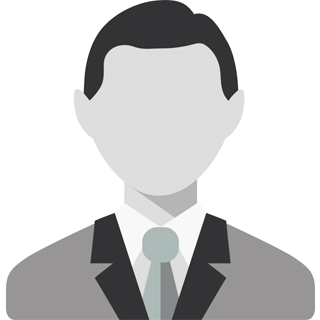
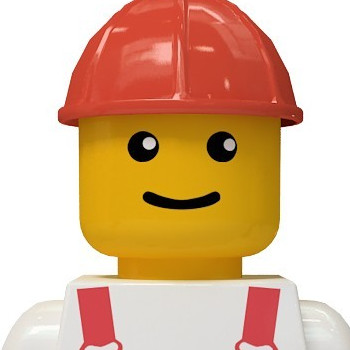
Enable the collapse of left-hand menu bar; hide picture on collapse of menu bar; style Addition blocks; style header

diff --git a/src/less/main.less b/src/less/main.less
@@ -15,6 +15,10 @@
 	#page-wrapper.open {
 		padding-left: 70px;
 	}
+
+	#profile {
+		display: none;
+	}
 }
 
 #page-wrapper.open #sidebar-wrapper {
@@ -69,23 +73,12 @@
 	margin-bottom: 15px;
 }
 
-.row.header > div:last-child {
-	padding-right: 0;
-}
-
-.row.header .meta .page {
-	font-size: 17px;
-	padding-top: 11px;
-}
-
 .row.header .meta .breadcrumb-links {
 	font-size: 10px;
 }
 
 .row.header .meta div {
 	white-space: nowrap;
-	overflow: hidden;
-	text-overflow: ellipsis;
 }
 
 .row.header .login a {
@@ -212,25 +205,6 @@
 	}
 }
 
-/* Fonts */
-@font-face {
-	font-family: 'Montserrat';
-	src: url('../fonts/montserrat-regular-webfont.eot');
-	src: url('../fonts/montserrat-regular-webfont.eot?#iefix') format('embedded-opentype'), url('../fonts/montserrat-regular-webfont.woff') format('woff'), url('../fonts/montserrat-regular-webfont.ttf') format('truetype'), url('../fonts/montserrat-regular-webfont.svg#montserratregular') format('svg');
-	font-weight: normal;
-	font-style: normal;
-}
-
-@media screen and (-webkit-min-device-pixel-ratio: 0) {
-	@font-face {
-		font-family: 'Montserrat';
-		src: url('../fonts/montserrat-regular-webfont.svg') format('svg');
-	}
-
-	select {
-		font-family: Arial, Helvetica, sans-serif;
-	}
-}
 /* Base */
 html {
 	overflow-y: scroll;
@@ -238,7 +212,6 @@ html {
 
 body {
 	background: #f3f3f3;
-	font-family: "Montserrat";
 	color: #333333 !important;
 }
 
@@ -299,26 +272,11 @@ div.input-mask {
 }
 
 
-/* #592727 RED */
-/* #2f5927 GREEN */
-/* #30426a BLUE (default)*/
-/* Sidebar background color */
-/* Sidebar header and footer color */
-/* Sidebar title text colour */
-/* Sidebar menu item hover color */
 /**
  * Sidebar
  */
 #sidebar-wrapper {
 	background: #30426a;
-}
-
-ul.sidebar .sidebar-main a,
-.sidebar-footer,
-ul.sidebar .sidebar-list a:hover,
-#page-wrapper:not(.open) ul.sidebar .sidebar-title.separator {
-	/* Sidebar header and footer color */
-	background: #2d3e63;
 }
 
 ul.sidebar {
@@ -351,7 +309,7 @@ ul.sidebar .sidebar-main a:hover {
 
 ul.sidebar .sidebar-main .menu-icon {
 	float: right;
-	font-size: 18px;
+	font-size: 20px;
 	padding-right: 28px;
 	line-height: 60px;
 }
@@ -388,6 +346,7 @@ ul.sidebar .sidebar-list a:hover .menu-icon {
 
 ul.sidebar .sidebar-list .menu-icon {
 	float: right;
+	font-size: 20px;
 	padding-right: 29px;
 	line-height: 40px;
 	width: 70px;
@@ -414,8 +373,13 @@ ul.sidebar .sidebar-list .menu-icon {
 	text-indent: 22px;
 }
 
-#page-wrapper:not(.open) .sidebar-footer {
-	display: none;
+#page-wrapper:not(.open) #profile,
+#page-wrapper:not(.open) #profile img,
+#page-wrapper:not(.open) #profile span {
+	opacity: 0;
+	height: 0;
+	padding: 0;
+	transition: height 0.5s linear, opacity 0.5s linear;
 }
 
 .sidebar-footer {

diff --git a/src/templates/dashboard.html b/src/templates/dashboard.html
@@ -6,7 +6,7 @@
             <rd-widget-body>
                 <div class="title">Track Builder</div>
                 <div class="comment">Build customer learning tracks</div>
-                <div><i class="fa fa-plus"></i></div>
+                <div class="addition-icon"><i class="fa fa-plus"></i></div>
             </rd-widget-body>
         </rd-widget>
     </div>
@@ -15,7 +15,7 @@
             <rd-widget-body>
                 <div class="title">Add Videos</div>
                 <div class="comment">Add videos for customers</div>
-                <div><i class="fa fa-plus"></i></div>
+                <div class="addition-icon"><i class="fa fa-plus"></i></div>
             </rd-widget-body>
         </rd-widget>
     </div>
@@ -24,7 +24,7 @@
             <rd-widget-body>
                 <div class="title">Add Documents</div>
                 <div class="comment">Add documents for customers</div>
-                <div><i class="fa fa-plus"></i></div>
+                <div class="addition-icon"><i class="fa fa-plus"></i></div>
             </rd-widget-body>
         </rd-widget>
     </div>

diff --git a/src/index.html b/src/index.html
@@ -30,7 +30,7 @@
         <div class="col-xs-12">
             <div class="meta">
                 <div class="page">
-                    Dashboard
+                    <img src="img/addoo-logo.png">
                 </div>
             </div>
         </div>
@@ -43,11 +43,11 @@
         <div id="sidebar-wrapper">
             <ul class="sidebar">
                 <li class="sidebar-main" id="collapser">
-                    <a ng-click="toggleSidebar()"> Dashboard <span class="menu-icon glyphicon glyphicon-transfer"></span></a>
+                    <a ng-click="toggleSidebar()"><span class="menu-icon glyphicon glyphicon-transfer"></span></a>
                 </li>
             </ul>
             <div id="profile">
-                <img src="{{currUser.picture.large}}" class="img-thumbnail img-responsive img-circle">
+                <img src="img/avatar.jpg" class="img-thumbnail img-responsive img-circle">
                 <span>Thomas</span>
             </div>
             <ul class="sidebar">

diff --git a/src/less/dashboard-style.less b/src/less/dashboard-style.less
@@ -3,11 +3,39 @@
 	font-size: 40px;
 }
 
-div.action-display .widget {
+div.action-display .widget-body {
+	padding: 0;
+}
+
+div .widget {
 	box-shadow: 0 1px 1px #BEBEBE;
+}
+
+div.action-display .widget div.title {
+	padding: 20px 20px 0px 20px;
+	font-size: 30px;
+	margin: 0;
+}
+
+div.action-display .widget div.comment {
+	padding: 5px 20px 20px 20px;
+	margin: 0;
+	font-size: 20px;
+	color: #6D7070;
+}
+
+div.action-display .widget div.addition-icon {
+	padding: 20px;
+	border-top: 1px solid #BEBEBE;
+	color: #0C80DF;
+	font-size: 15px;
+}
+
+div.action-display .widget div.addition-icon i:hover {
+	color: #0564B4;
+	cursor: pointer;
 }
 
 .row .table-container {
 	margin: 5px 15px 20px 15px;
 }
-

diff --git a/src/less/sidebar-style.less b/src/less/sidebar-style.less
@@ -4,12 +4,17 @@
 }
 
 div#sidebar-wrapper #profile {
+	width: 250px;
+	height: 250px;
+	padding: 0 30px;
 	font-size: 30px;
 	text-align: center;
 	color: #FFFFFF;
 }
 
 ul.sidebar .sidebar-list a {
+	font-weight: bold;
+	font-size: 18px;
 	color: #6D7070;
 	padding: 7px 0px;
 }
@@ -20,11 +25,7 @@ ul.sidebar .sidebar-list a:hover {
 	background-color: #353535;
 }
 
-ul.sidebar .sidebar-main a {
+ul.sidebar .sidebar-main span {
 	color: #6D7070; 
-	background-color: #353535;
 }
 
-ul.sidebar .sidebar-main span {
-	color: #6D7070;
-}

diff --git a/src/less/header-style.less b/src/less/header-style.less
@@ -6,5 +6,14 @@
 	padding: 0;
 	margin: 0;
 	background-color: black;
-	color: white;
+	z-index: 999;
+}
+
+/*Lib. Override*/
+div.row.header.full-width .col-xs-12 {
+	padding-left: 0;
+}
+
+div.row.header.full-width img {
+	height: 100px;
 }
